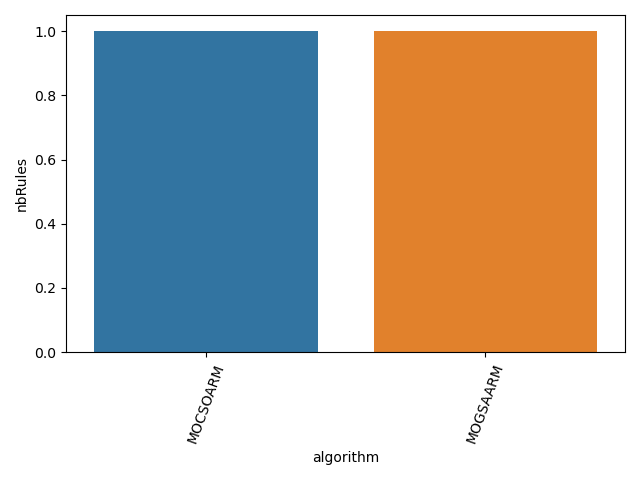
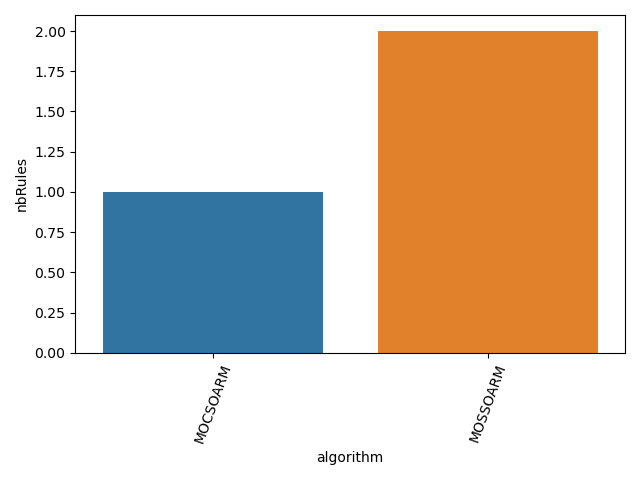
add MOSSOARM

Changed region(s): [[0.0312, 0.0312, 0.9688, 0.9375], [0.4688, 0.9375, 0.5938, 0.9688]]

diff --git a/src/Algorithm/MOSSOARM.py b/src/Algorithm/MOSSOARM.py
@@ -1,0 +1,145 @@
+from src.Utils.Fitness import *
+from src.Utils.Population import *
+import matplotlib.pyplot as plt
+import pandas as pd
+from scipy.spatial import distance
+from src.Utils.Graphs import *
+from time import time
+from src.Utils.HyperParameters import *
+import heapq
+
+class MOSSOARM:
+    def __init__(self,nbItem,populationSize,nbIteration,nbObjectifs,objectiveNames,data,
+                 hyperParameters = HyperParameters(['PF']),r=2):
+        self.population = Population('horizontal_binary', populationSize, nbItem)
+        self.indexFemale = int((0.9-rd.random()*0.25)*populationSize)
+        self.r = r
+        self.nbItem = nbItem
+        self.nbIteration = nbIteration
+        self.nbObjectifs = nbObjectifs
+        self.fitness = Fitness('horizontal_binary', objectiveNames, populationSize )
+        self.bestInd = 0
+        self.bestIndScore = np.zeros(nbObjectifs, dtype=float)
+        self.worstInd = 0
+        self.worstIndScore = np.zeros(nbObjectifs, dtype=float)
+        self.median = 0
+        self.PF = hyperParameters.hyperParameters['PF']
+        self.distance = np.zeros((populationSize,populationSize),dtype=float)
+        self.executionTime = 0
+        self.fitness.ComputeScorePopulation(self.population.population, data)
+
+
+    def CalculDistance(self):
+        for i in range(self.population.populationSize):
+            for j in range(self.population.populationSize):
+                dst = distance.euclidean(self.population.population[i], self.population.population[j])
+                self.distance[i, j] = dst
+
+    def UpdateBestWorst(self):
+        indexs = np.arange(self.population.populationSize)
+        paretoFront = np.ones(self.population.populationSize)
+        for i in range(self.population.populationSize):
+            for j in range(self.population.populationSize):
+                domination = self.fitness.Domination(self.fitness.scores[i], self.fitness.scores[j])
+                if domination == 1:
+                    paretoFront[i] += 1
+                    break
+        candidate = indexs[paretoFront == 1]
+        index = rd.choice(candidate)
+        worstIndex = np.argmax(paretoFront)
+        self.bestInd = index
+        self.bestIndScore = copy.deepcopy(self.fitness.scores[index])
+        self.worstInd = worstIndex
+        self.worstIndScore = copy.deepcopy(self.fitness.scores[worstIndex])
+
+    def CooperativeFemaleSpider(self):
+        for i in range(self.indexFemale):
+            r = rd.random()
+            distance = self.distance[i]
+            idTest = 1
+            smallest = heapq.nsmallest(idTest, distance)[-1]
+            indexVibci = np.where(distance == smallest)[0][0]
+            domination = self.fitness.Domination(self.fitness.scores[i],self.fitness.scores[indexVibci])
+            while domination != 1 and idTest<self.population.populationSize and idTest ==i:
+                idTest += 1
+                smallest = heapq.nsmallest(idTest, distance)[-1]
+                indexVibci = np.where(distance == smallest)[0][0]
+                domination = self.fitness.Domination(self.fitness.scores[i], self.fitness.scores[indexVibci])
+            if domination != 1:
+                indexVibci = rd.randint(0,self.population.populationSize-1)
+            wb = (sum(self.fitness.scores[self.bestInd])-sum(self.worstIndScore))/(sum(self.bestIndScore)-sum(self.worstIndScore))
+            wc = (sum(self.fitness.scores[indexVibci]) - sum(self.worstIndScore)) / (
+                        sum(self.bestIndScore) - sum(self.worstIndScore))
+            Vibci = wc * np.exp(-pow(self.distance[i, indexVibci], 2))
+            Vibbi = wb * np.exp(-pow(self.distance[i, self.bestInd], 2))
+            alpha = rd.random()
+            beta = rd.random()
+            delta = rd.random()
+            if r>self.PF:
+                self.population.population[i] = self.population.population[i] + alpha*Vibci*(self.population.population[indexVibci] - self.population.population[i]) + beta*Vibbi*(self.population.population[self.bestInd]-self.population.population[i])+delta*(rd.random()*2)-1
+            else:
+                self.population.population[i] = self.population.population[i] - alpha * Vibci * (
+                            self.population.population[indexVibci] - self.population.population[i]) - beta * Vibbi * (
+                                                            self.population.population[self.bestInd] -
+                                                            self.population.population[i]) + delta * (
+                                                            rd.random() * 2) - 1
+    def MatingOperator(self,maleIndex,data):
+        candidate = self.distance[:self.indexFemale]
+        candidate = candidate[candidate<self.r]
+        if len(candidate) >0:
+            indexs = np.arange(len(candidate))
+            paretoFront = np.ones(len(candidate))
+            for i in range(len(candidate)):
+                for j in range(len(candidate)):
+                    domination = self.fitness.Domination(self.fitness.scores[i], self.fitness.scores[j])
+                    if domination == 1:
+                        paretoFront[i] += 1
+                        break
+            candidate = indexs[paretoFront == 1]
+            index = rd.choice(candidate)
+            snew = self.population.population[maleIndex] + self.population.population[index]
+            score = self.fitness.ComputeScoreIndividual(snew,data)
+            domination = self.fitness.Domination(self.worstIndScore,score)
+            if domination == 1:
+                self.population.population[self.worstInd] = copy.deepcopy(snew)
+                self.UpdateBestWorst()
+
+
+    def CooperativeMaleSpider(self,data):
+        weight = copy.deepcopy(self.fitness.scores)
+        weight = np.sum(weight,axis=1)
+        weight = weight-sum(self.worstIndScore)
+        weight = weight/(sum(self.bestIndScore-self.worstIndScore))
+        maleWeight = weight[self.indexFemale:]
+        self.median = np.median(maleWeight)
+        for i in range(self.population.populationSize-self.indexFemale):
+            distance = self.distance[self.indexFemale+i][:self.indexFemale]
+            alpha = rd.random()
+            delta = rd.random()
+            if weight[i]>self.median:
+                indexF = np.argmin(distance)
+                wf = (sum(self.fitness.scores[indexF])-sum(self.worstIndScore))/(sum(self.bestIndScore)-sum(self.worstIndScore))
+                Vf = wf * np.exp(-pow(self.distance[i, indexF], 2))
+                self.population.population[self.indexFemale+i] =self.population.population[self.indexFemale+i] + alpha *Vf*(self.population.population[indexF]-self.population.population[self.indexFemale+i]) + delta * (
+                                                            rd.random() * 2) - 1
+                self.MatingOperator(self.indexFemale+i,data)
+
+            else:
+                average = np.average(self.population.population[self.indexFemale:],axis=0)
+                self.population.population[self.indexFemale+i] = self.population.population[self.indexFemale+i]+alpha*average
+
+
+    def Run(self,data,i):
+
+        t1 = time()
+
+        self.population.CheckIfNull()
+        self.fitness.ComputeScorePopulation(self.population.population, data)
+        self.UpdateBestWorst()
+        self.CalculDistance()
+        self.CooperativeFemaleSpider()
+        self.CooperativeMaleSpider(data)
+        self.executionTime = time() - t1
+
+
+

diff --git a/main.py b/main.py
@@ -17,6 +17,7 @@ from src.Algorithm.MODEARM import *
 from src.Algorithm.NSHSDEARM import *
 from src.Algorithm.MOGEAARM import *
 from src.Algorithm.MOGSAARM import *
+from src.Algorithm.MOSSOARM import *
 
 from src.Utils.Performances import *
 from src.Utils.Data import *
@@ -39,7 +40,7 @@ nbIteration = 10
 populationSize = 200
 objectiveNames = ['support','confidence','accuracy']
 criterionList = ['scores','execution time']
-algorithmNameList = ['MOCSOARM','MOGSAARM']
+algorithmNameList = ['MOCSOARM','MOSSOARM']
 #algorithmNameList = ['CSOARM','mopso','nsgaii','hmofaarm','mowsaarm','mocatsoarm','motlboarm','mofpaarm','moaloarm','modaarm','MOHSBOTSARM']
 
 perf = Performances(algorithmNameList,criterionList,objectiveNames)
@@ -66,10 +67,11 @@ modearm = MODEARM(d.data.shape[1],populationSize,nbIteration,len(objectiveNames)
 nshsdearm = NSHSDEARM(d.data.shape[1],populationSize,nbIteration,len(objectiveNames),objectiveNames,d.data)
 mogeaarm = MOGEAARM(d.data.shape[1],populationSize,nbIteration,len(objectiveNames),objectiveNames,d.data)
 mogsaarm = MOGSAARM(d.data.shape[1],populationSize,nbIteration,len(objectiveNames),objectiveNames,d.data)
+mossoarm = MOSSOARM(d.data.shape[1],populationSize,nbIteration,len(objectiveNames),objectiveNames,d.data)
 
 
 #algorithmList = [mocsoarm,mopso,nsgaii,hmofaarm,mowsaarm,mocatsoarm,motlboarm,mofpaarm,moaloarm,modaarm,mohsbotsarm]
-algorithmList = [mocsoarm,mogsaarm]
+algorithmList = [mocsoarm,mossoarm]
 for i in range(nbIteration):
     k = 0
     for alg in algorithmList:
